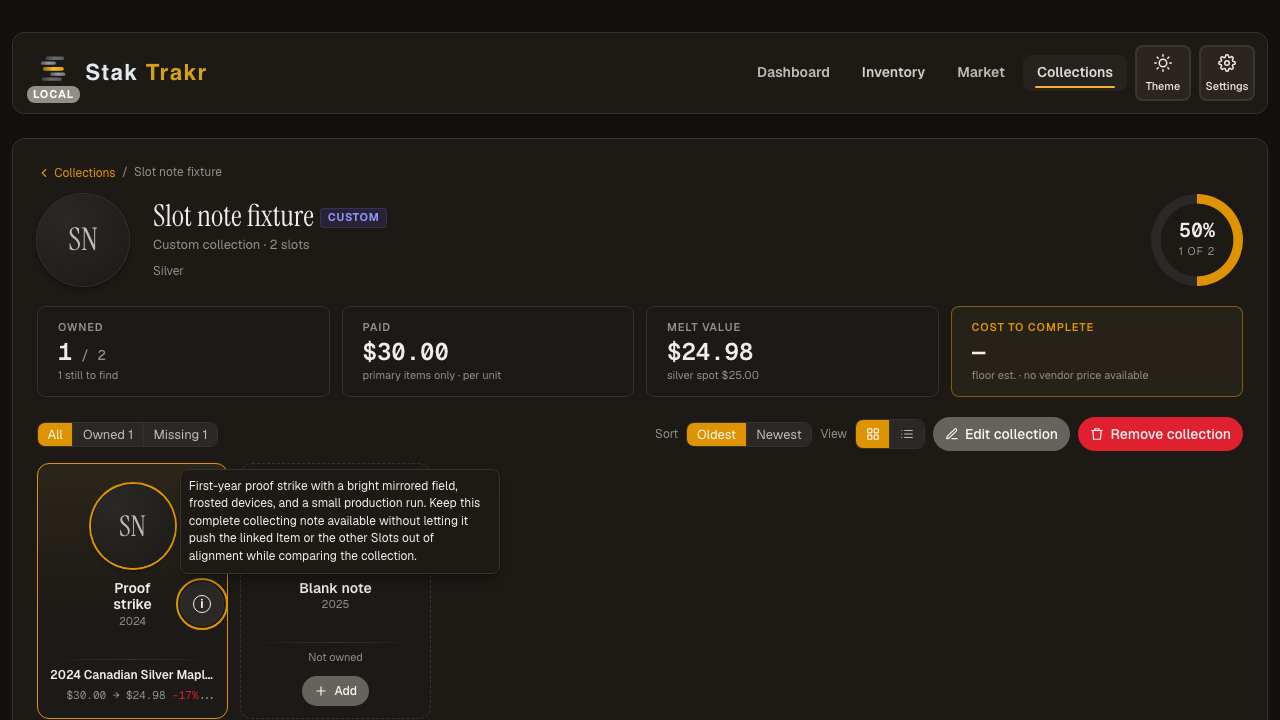
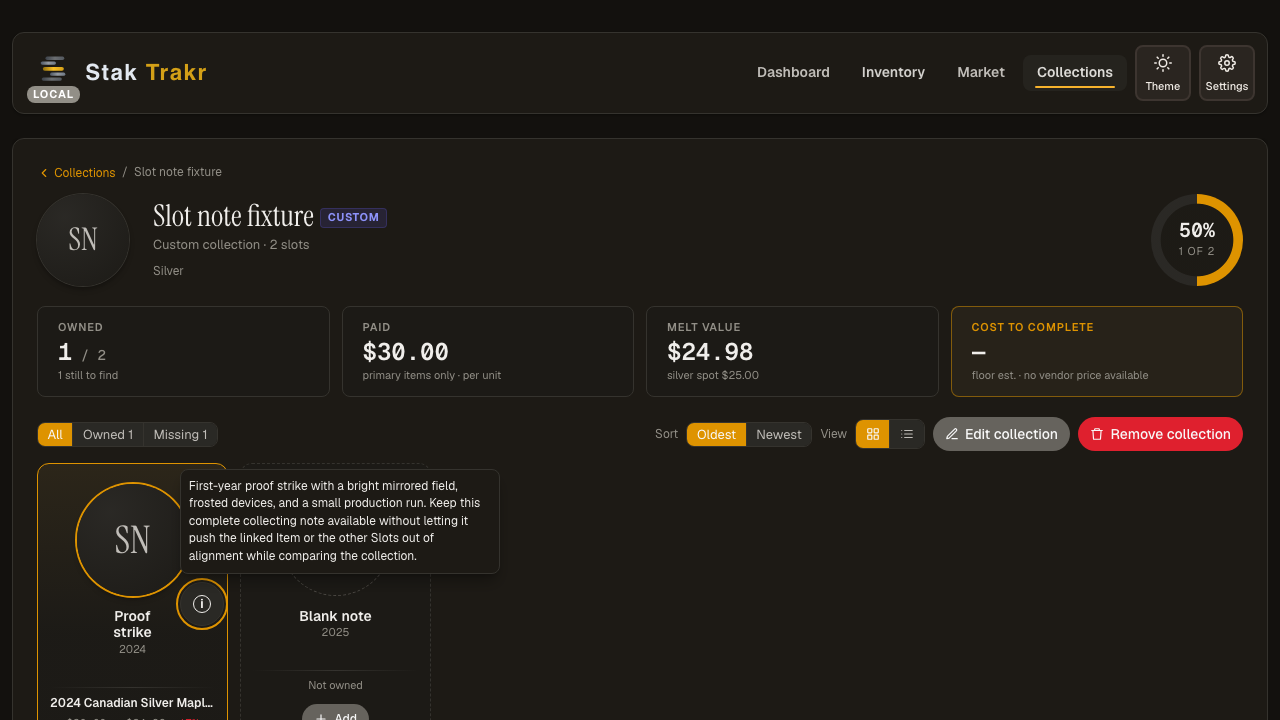
fix: finish Slot note popover dismissal (STRK-399)

Changed region(s): [[0.0312, 0.6722, 0.1875, 1.0], [0.2188, 0.7944, 0.3125, 1.0], [0.125, 0.6722, 0.1562, 0.7028]]

diff --git a/js/collections-album.js b/js/collections-album.js
@@ -267,9 +267,11 @@
       active.popover.hidden = true;
       active.origin.appendChild(active.popover);
       document.removeEventListener("pointerdown", active.onPointerDown, true);
+      document.removeEventListener("focusin", active.onFocusIn, true);
       document.removeEventListener("keydown", active.onKeyDown, true);
       window.removeEventListener("scroll", active.onScroll, true);
       window.removeEventListener("resize", active.onResize);
+      window.removeEventListener("hashchange", active.onHashChange);
       if (restoreFocus && active.button.isConnected) active.button.focus();
     };
 
@@ -304,7 +306,7 @@
     const buildSlotNoteControl = (slot, surface) => {
       if (!slot.note || !String(slot.note).trim()) return null;
       const noteId = `collections-slot-note-${++slotNotePopoverSequence}`;
-      const popover = el("div", "collections-note-popover", slot.note);
+      const popover = el("span", "collections-note-popover", slot.note);
       popover.id = noteId;
       popover.hidden = true;
       popover.setAttribute("role", "region");
@@ -331,27 +333,42 @@
             if (!control.contains(pointerEvent.target) && !popover.contains(pointerEvent.target))
               closeSlotNotePopover();
           };
+          const onFocusIn = (focusEvent) => {
+            if (!control.contains(focusEvent.target) && !popover.contains(focusEvent.target))
+              closeSlotNotePopover();
+          };
           const onKeyDown = (keyEvent) => {
             if (keyEvent.key !== "Escape") return;
             keyEvent.preventDefault();
             keyEvent.stopPropagation();
             closeSlotNotePopover(true);
           };
-          const onScroll = () => positionSlotNotePopover(control, popover);
+          const onScroll = () => {
+            if (!control.isConnected) {
+              closeSlotNotePopover();
+              return;
+            }
+            positionSlotNotePopover(control, popover);
+          };
           const onResize = () => closeSlotNotePopover();
+          const onHashChange = () => closeSlotNotePopover();
           activeSlotNotePopover = {
             button: control,
             popover,
             origin,
             onPointerDown,
+            onFocusIn,
             onKeyDown,
             onScroll,
             onResize,
+            onHashChange,
           };
           document.addEventListener("pointerdown", onPointerDown, true);
+          document.addEventListener("focusin", onFocusIn, true);
           document.addEventListener("keydown", onKeyDown, true);
           window.addEventListener("scroll", onScroll, true);
           window.addEventListener("resize", onResize);
+          window.addEventListener("hashchange", onHashChange);
         }
       );
       control.type = "button";
@@ -727,10 +744,14 @@
      * @returns {HTMLElement} Album panel content
      */
     const buildAlbum = (entry) => {
+      closeSlotNotePopover();
       const album = el("div", "collections-album");
       const crumb = el("nav", "collections-crumb");
       crumb.setAttribute("aria-label", "Breadcrumb");
-      const back = button("", "album:back", () => showHub());
+      const back = button("", "album:back", () => {
+        closeSlotNotePopover();
+        showHub();
+      });
       back.appendChild(icon("back"));
       back.appendChild(el("span", "", "Collections"));
       crumb.appendChild(back);
@@ -748,6 +769,6 @@
       return album;
     };
 
-    return { buildAlbum };
+    return { buildAlbum, closeSlotNotePopover };
   };
 })();

diff --git a/css/styles.css b/css/styles.css
@@ -18126,7 +18126,7 @@ input[type="number"] {
 }
 
 .collections-slot {
-  --collections-coin: 112px;
+  --collections-slot-coin: 112px;
   position: relative;
   display: flex;
   flex-direction: column;
@@ -18138,6 +18138,10 @@ input[type="number"] {
   background: var(--bg-secondary);
   border: 1px solid var(--border);
   border-radius: var(--radius-lg);
+}
+
+.collections-slot .collections-coin {
+  --collections-coin: var(--collections-slot-coin);
 }
 
 .collections-slot.is-missing {
@@ -18272,7 +18276,7 @@ input[type="number"] {
 
 .collections-note-toggle.is-album {
   position: absolute;
-  top: calc(var(--spacing-lg) + var(--collections-coin) + var(--spacing-md) - 1.4rem);
+  top: calc(var(--spacing-lg) + var(--collections-slot-coin) + var(--spacing-md) - 1.4rem);
   right: var(--spacing-xs);
   z-index: 1;
 }
@@ -18803,7 +18807,7 @@ input[type="number"] {
   }
 
   .collections-slot {
-    --collections-coin: 88px;
+    --collections-slot-coin: 88px;
     padding: var(--spacing) var(--spacing-sm) var(--spacing-sm);
   }
 

diff --git a/tests/playwright/core/collections.spec.js b/tests/playwright/core/collections.spec.js
@@ -914,6 +914,15 @@ test.describe("core/collections — link picker, builder, item view", () => {
     await expect(popover).toBeHidden();
     await expect(noteButton).toHaveAttribute("aria-expanded", "false");
     await expect(noteButton).toBeFocused();
+
+    await page.keyboard.press("Enter");
+    await page.keyboard.press("Tab");
+    await expect(popover).toBeHidden();
+    await expect(noteButton).toHaveAttribute("aria-expanded", "false");
+
+    await noteButton.click();
+    await page.getByRole("button", { name: "Collections" }).click();
+    await expect(popover).toBeHidden();
   });
 
   test("long Slot notes stay compact beside Ledger identity and linked Items", async ({

diff --git a/js/collections-ui.js b/js/collections-ui.js
@@ -1141,7 +1141,7 @@
     PERCENT,
     state,
   });
-  const { buildAlbum } = window.createCollectionsAlbumRenderer({
+  const { buildAlbum, closeSlotNotePopover } = window.createCollectionsAlbumRenderer({
     el,
     button,
     icon,
@@ -1319,6 +1319,7 @@
    * @returns {void}
    */
   const render = () => {
+    closeSlotNotePopover();
     // getElementById, not safeGetElement: this can run before init.js defines it, and
     // the existence check needs a real null rather than the truthy dummy.
     const root = document.getElementById(ROOT_ID);

diff --git a/sw.js b/sw.js
@@ -25,7 +25,7 @@ const DEV_MODE = false; // Set to true during development — bypasses all cachi
 // base the relative "./" cache keys resolve against.
 const SW_SCOPE_PATH = new URL("./", self.location.href).pathname;
 
-const CACHE_NAME = "staktrakr-v3.36.29-b1790325565";
+const CACHE_NAME = "staktrakr-v3.36.29-b1790326483";
 
 // Offline fallback for navigation requests when all cache/network strategies fail
 const OFFLINE_HTML =
